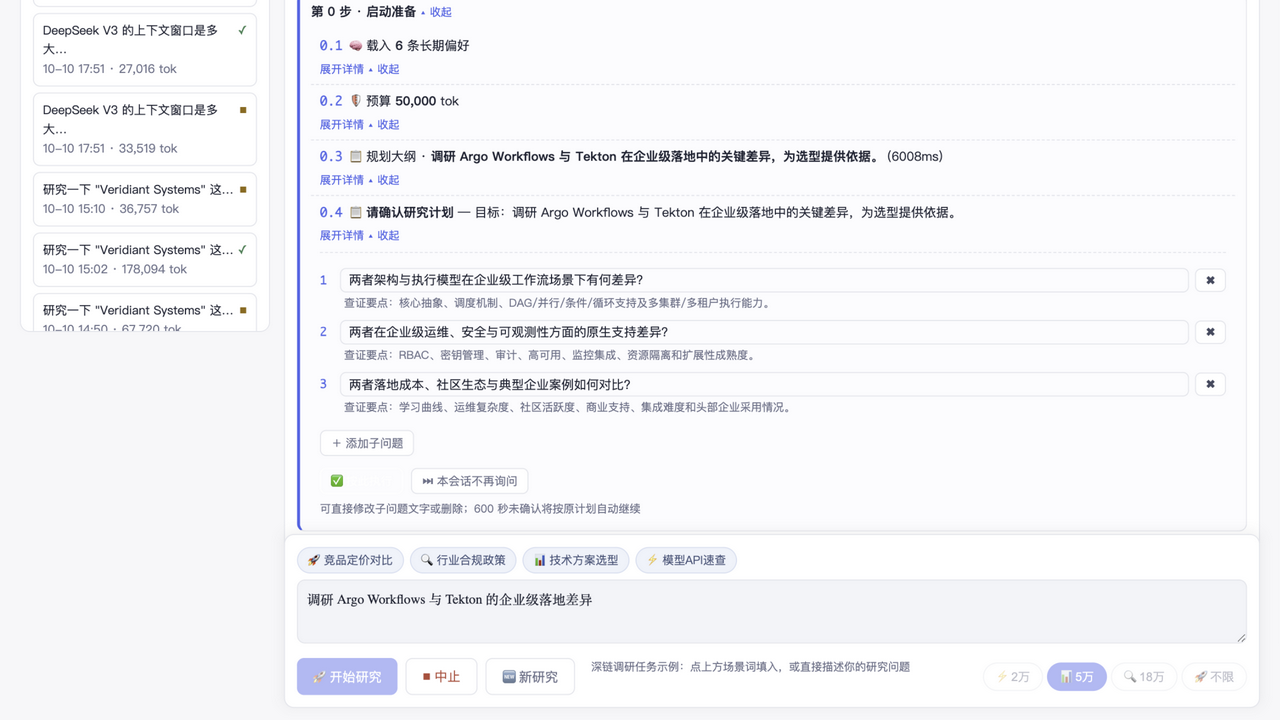
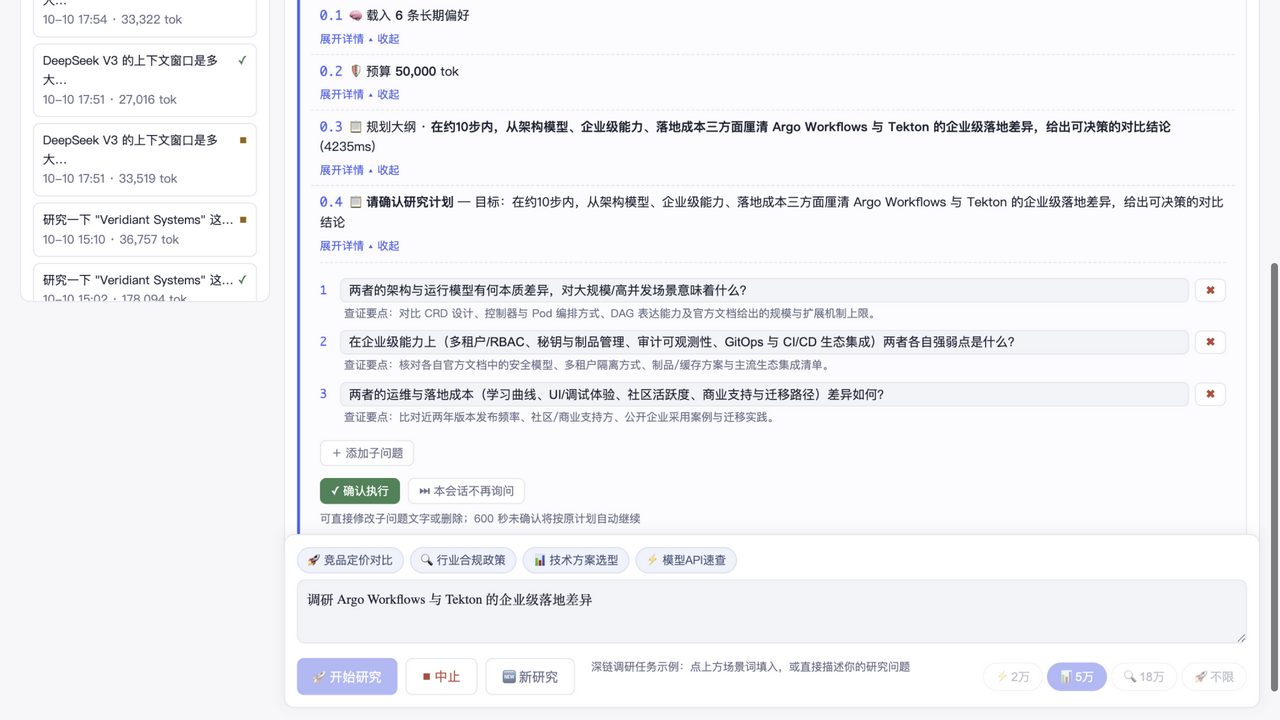
fix: 确认按钮隐身 — var(--green)/var(--surface)/var(--red) 引用了不存在的 CSS 变量
根因：确认卡样式从其他项目抄来，用了该项目的令牌名（--green/--surface/
--red），本文件 :root 定义的是 --ok/--input/--err —— var() 落空 → 背景
透明、白字白底，按钮隐身。
- 修正为标准令牌；全文件 var() 引用扫描确认无其他未定义变量
- ui-05 截图更新为修复后的确认卡

Changed region(s): [[0.2188, 0.0, 0.9688, 0.7333], [0.0312, 0.0, 0.1875, 0.4583], [0.9375, 0.3667, 1.0, 0.9472]]

diff --git a/webapp/static/index.html b/webapp/static/index.html
@@ -499,8 +499,8 @@ function renderEvent(ev, live){
         <div class="pc-row" style="margin:8px 0;">
           <div style="display:flex;gap:6px;align-items:center;">
             <span class="sub">${i + 1}</span>
-            <input class="pc-q" style="flex:1;background:var(--surface);border:1px solid var(--line);border-radius:6px;padding:4px 8px;color:var(--txt);font-size:12.5px" value="${esc(sq.q || '')}">
-            <button class="rbtn pc-del" onclick="pcDel(this)" style="color:var(--red)">✖</button>
+            <input class="pc-q" style="flex:1;background:var(--input);border:1px solid var(--line);border-radius:6px;padding:4px 8px;color:var(--txt);font-size:12.5px" value="${esc(sq.q || '')}">
+            <button class="rbtn pc-del" onclick="pcDel(this)" style="color:var(--err)">✖</button>
           </div>
           ${sq.what_to_verify ? `<div style="font-size:11px;color:var(--dim);margin:2px 0 0 24px">查证要点：${esc(sq.what_to_verify)}</div>` : ''}
         </div>`).join('');
@@ -509,7 +509,7 @@ function renderEvent(ev, live){
         `<div id="pc_rows">${rows}</div>` +
         `<button class="rbtn" onclick="pcAddRow()" style="margin-top:6px;color:var(--dim)">＋ 添加子问题</button>` +
         `<div style="margin-top:12px;display:flex;gap:8px;">
-           <button class="rbtn" id="pc_ok" style="background:var(--green);color:#fff;border-color:var(--green)" onclick="pcDecide('confirm')">✓ 确认执行</button>
+           <button class="rbtn" id="pc_ok" style="background:var(--ok);color:#fff;border-color:var(--ok)" onclick="pcDecide('confirm')">✓ 确认执行</button>
            <button class="rbtn pc-skip" style="color:var(--dim)" onclick="pcDecide('skip')">⏭ 本会话不再询问</button>
          </div>` +
         `<div style="font-size:11px;color:var(--dim);margin-top:6px">可直接修改子问题文字或删除；600 秒未确认将按原计划自动继续</div>`);
@@ -960,8 +960,8 @@ function pcAddRow() {
   var n = document.querySelectorAll('#pc_rows .pc-row').length + 1;
   div.innerHTML = '<div style="display:flex;gap:6px;align-items:center;">' +
     '<span class="sub">' + n + '</span>' +
-    '<input class="pc-q" style="flex:1;background:var(--surface);border:1px solid var(--line);border-radius:6px;padding:4px 8px;color:var(--txt);font-size:12.5px">' +
-    '<button class="rbtn pc-del" onclick="pcDel(this)" style="color:var(--red)">✖</button></div>';
+    '<input class="pc-q" style="flex:1;background:var(--input);border:1px solid var(--line);border-radius:6px;padding:4px 8px;color:var(--txt);font-size:12.5px">' +
+    '<button class="rbtn pc-del" onclick="pcDel(this)" style="color:var(--err)">✖</button></div>';
   document.getElementById('pc_rows').appendChild(div);
 }
 function pcDecide(action) {
